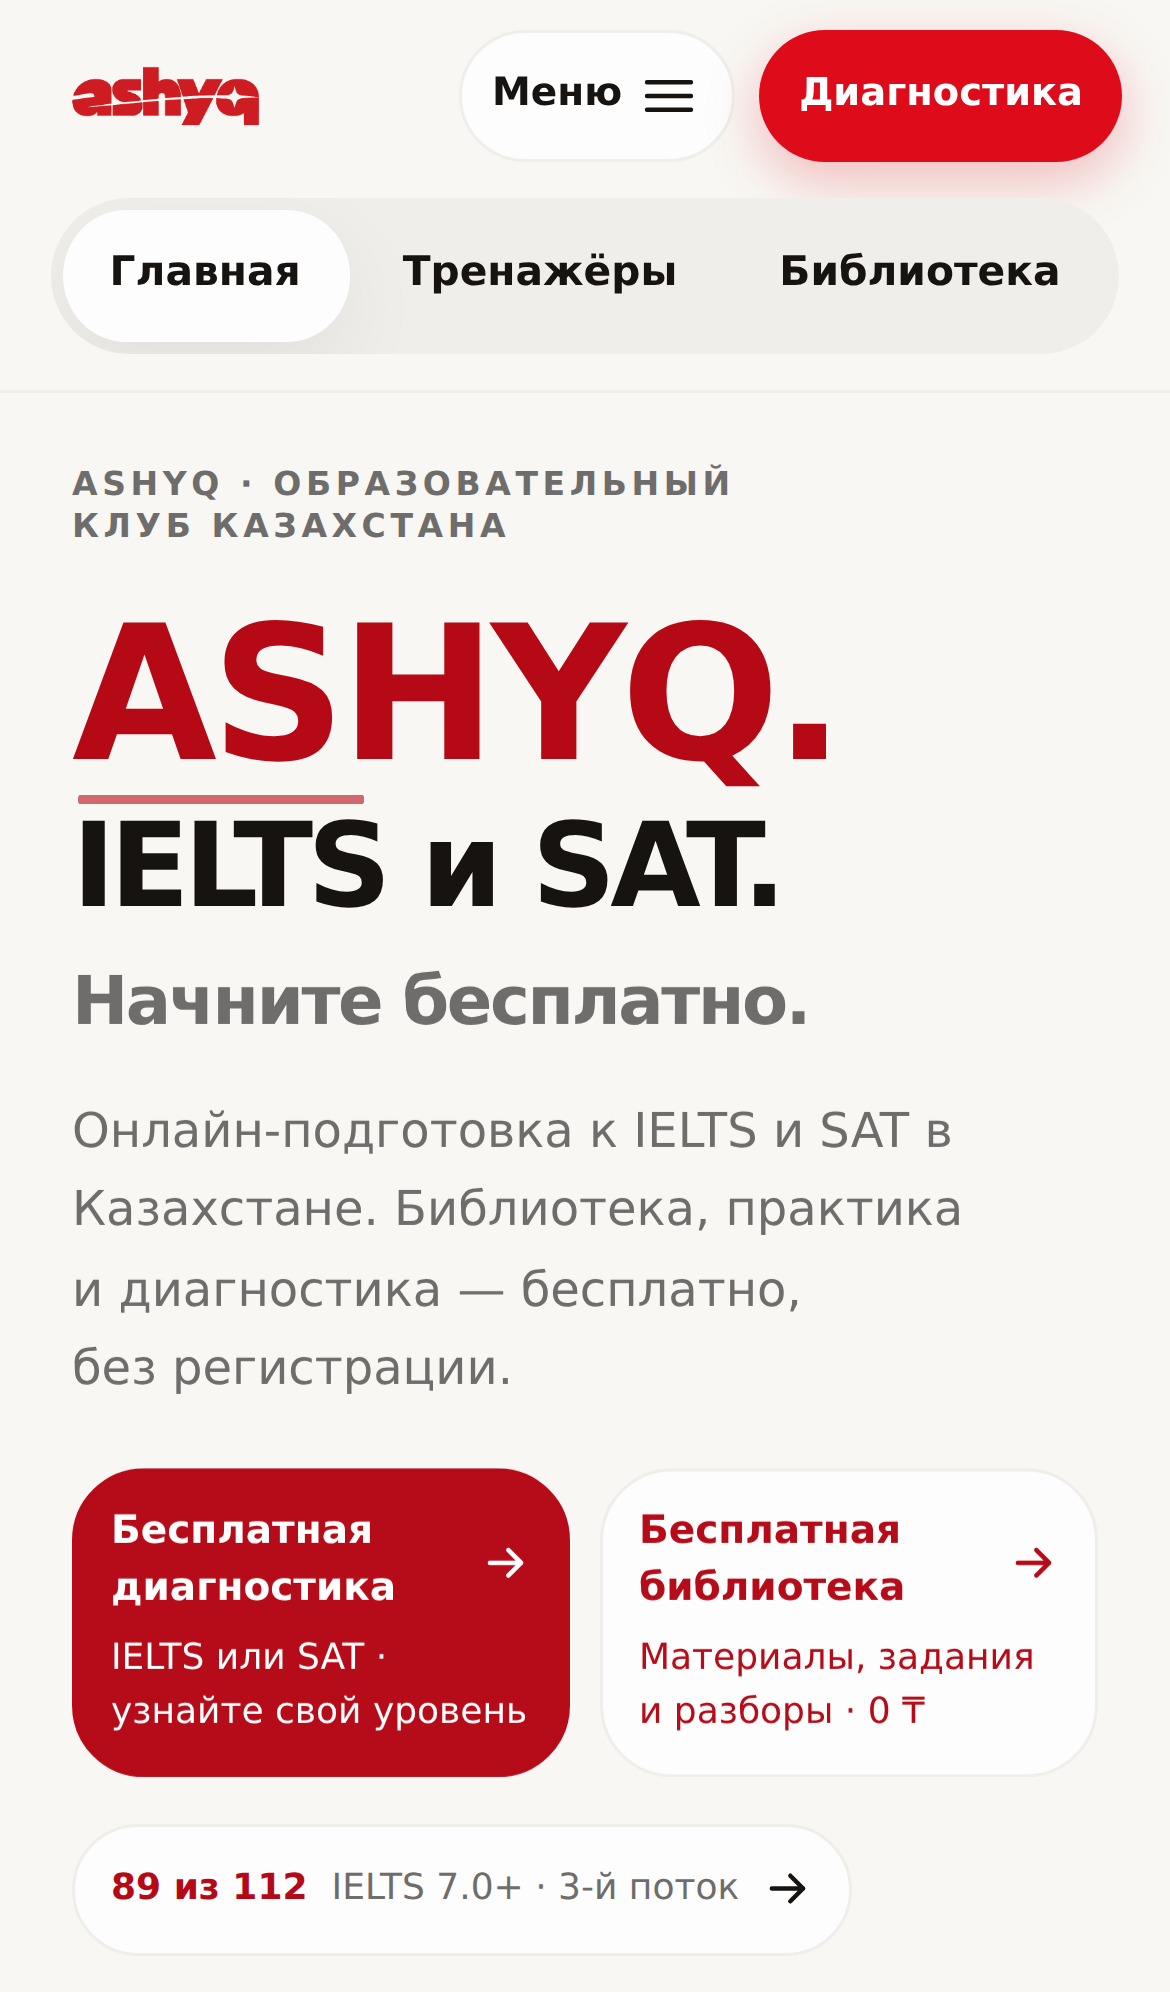
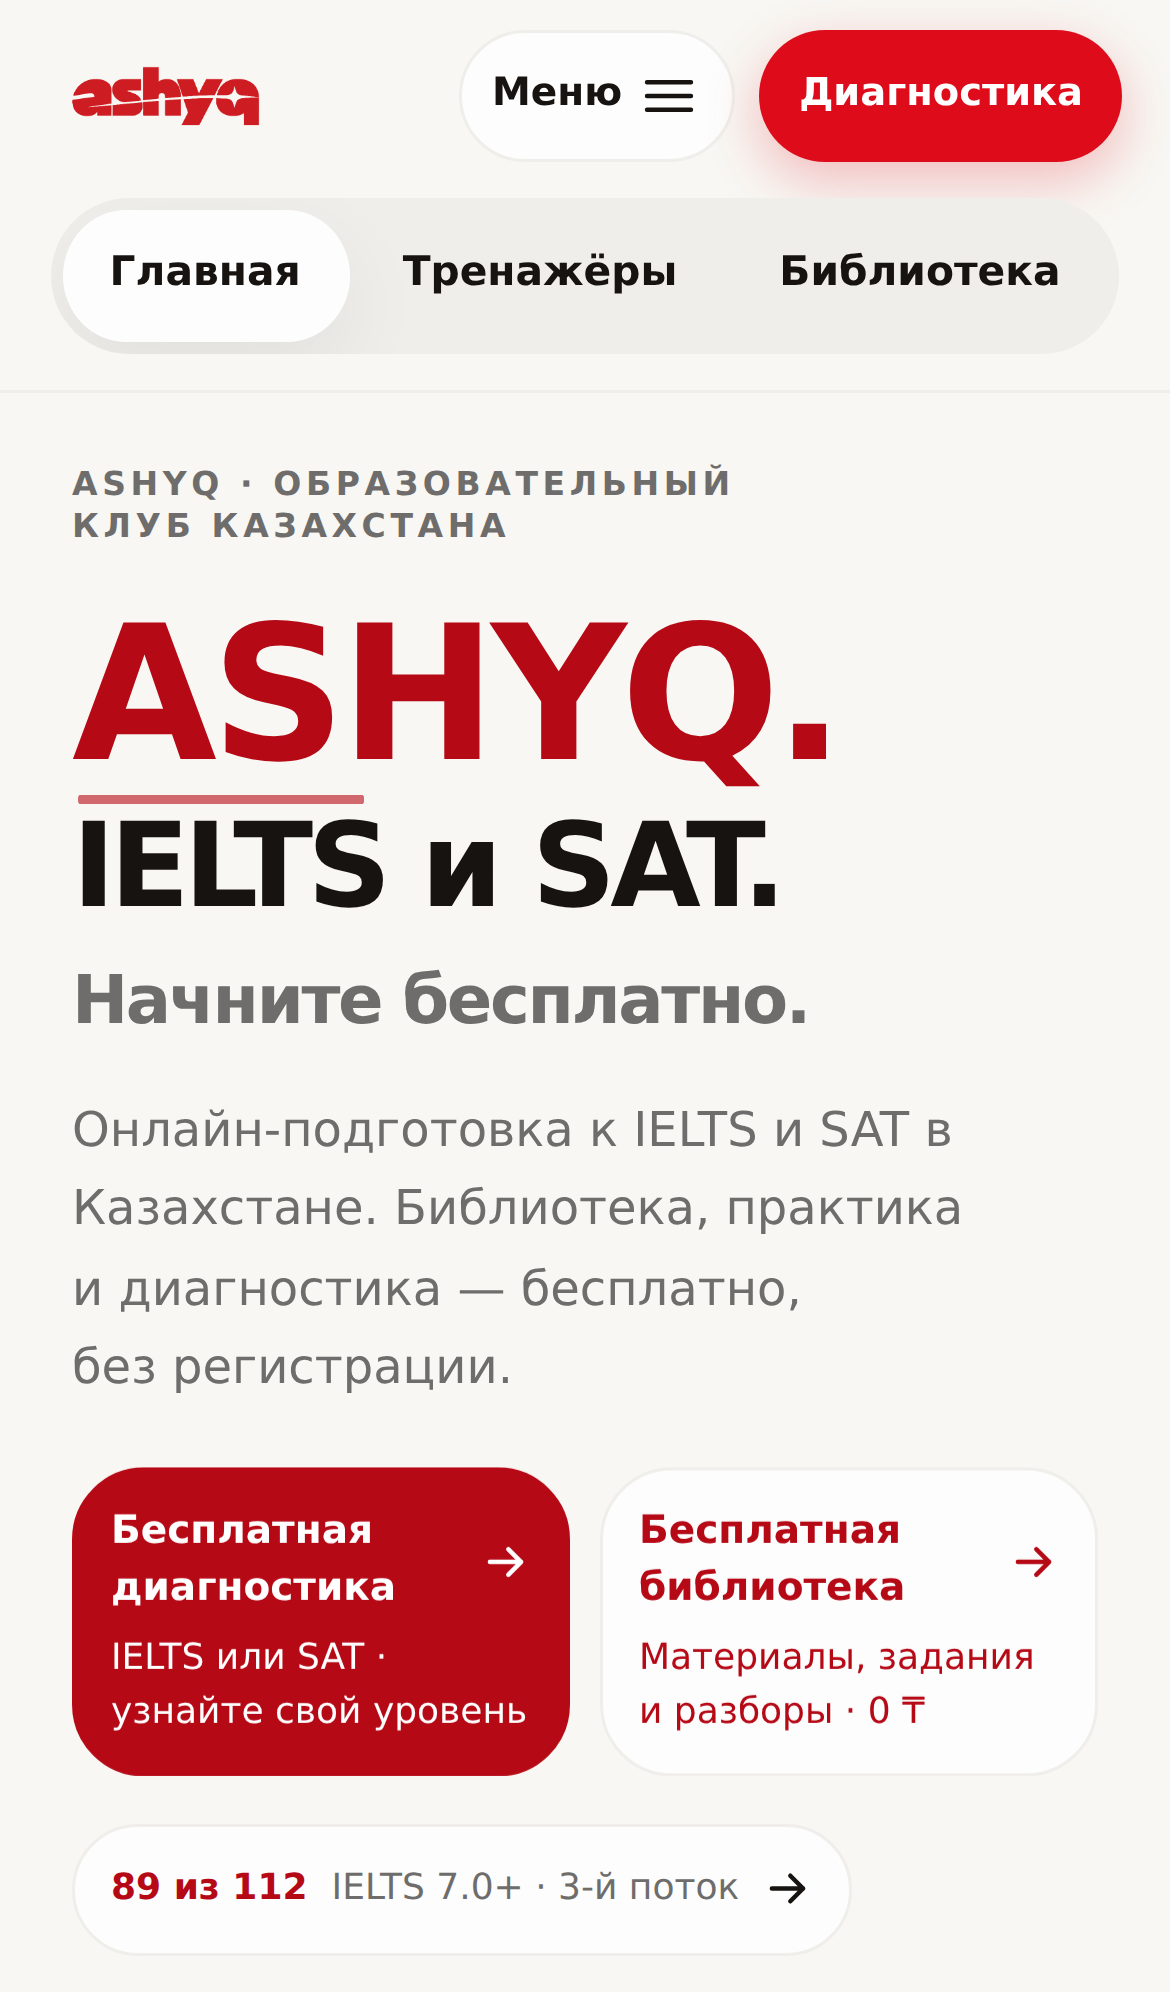
docs: record passing final hero screenshot evidence

Changed region(s): [[0.1231, 0.5914, 0.1538, 0.6225]]

diff --git a/docs/design/HERO-048-EVIDENCE.md b/docs/design/HERO-048-EVIDENCE.md
@@ -1,8 +1,9 @@
 # First-fold screenshot evidence
 
-Original, unedited CI captures. Before:390px viewport, CI39288583462, feature0b62fd5.
-Initial after:390/1440px viewports, CI39292907065, feature5450109.
-That after run produced the screenshots but failed a later runtime border-token audit;
-its divider color was subsequently corrected in6c94291. These are real browser captures,
-not a claim that the first run passed or that a physical phone was tested.
-Final passing-run provenance will replace this note after release acceptance.
+Original, unedited CI captures, not rendered illustrations or physical-phone tests.
+Before:390px viewport, CI39288583462, feature0b62fd5 (full CI passed).
+Final after:390/1440px viewports, CI39294131711,
+exact feature6c94291d5130d27ff906f9e1d43ef24bfee6348f (full CI passed).
+Mobile and desktop final captures were visually inspected before release.
+The initial failed run39292907065 found a derived border color outside accepted
+tokens;6c94291 uses ink-soft directly, without changing the audit.
